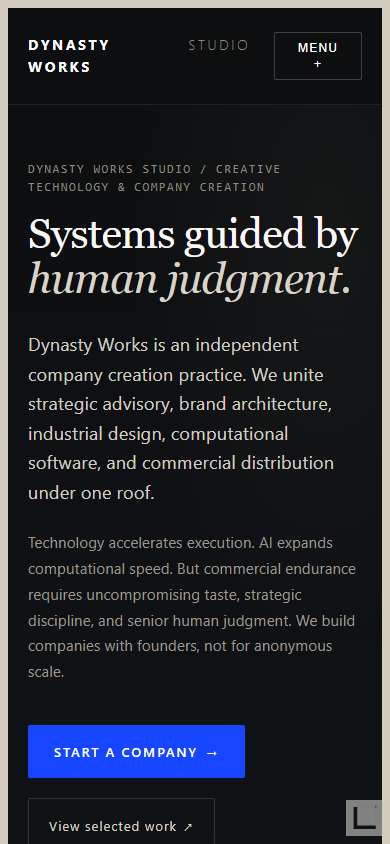
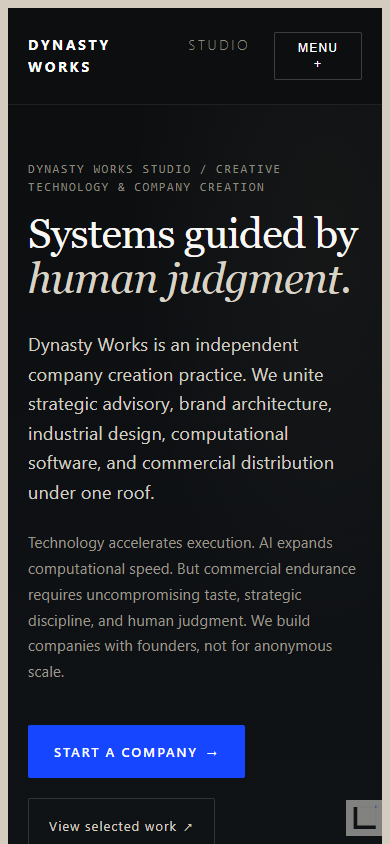
fix(phase-2d): apply truthfulness copy patch to studio operating principles

Changed region(s): [[0.3385, 0.7085, 0.9231, 0.7701]]

diff --git a/src/StudioPage.tsx b/src/StudioPage.tsx
@@ -86,7 +86,7 @@ export default function StudioPage() {
             </p>
             <p className="studio-hero-sub">
               Technology accelerates execution. AI expands computational speed. But commercial endurance requires
-              uncompromising taste, strategic discipline, and senior human judgment. We build companies with founders,
+              uncompromising taste, strategic discipline, and human judgment. We build companies with founders,
               not for anonymous scale.
             </p>
 
@@ -148,34 +148,34 @@ export default function StudioPage() {
 
             <div className="studio-tenets-grid">
               <article className="studio-tenet-card">
-                <span className="studio-tenet-num">01 / SENIOR LEADERSHIP</span>
-                <h3>Direct Practitioner Collaboration</h3>
+                <span className="studio-tenet-num">01 / FOUNDER PARTNERSHIP</span>
+                <h3>Direct Collaboration</h3>
                 <p>
-                  Founders partner directly with senior creative directors and technology architects. No junior handoffs, no account-management bureaucracy, and no translation layers.
+                  Direct collaboration and strategic alignment throughout the build. Founders work directly with the practice without account-management bureaucracy or translation layers.
                 </p>
               </article>
 
               <article className="studio-tenet-card">
                 <span className="studio-tenet-num">02 / END-TO-END OWNERSHIP</span>
-                <h3>One Unified Creative System</h3>
+                <h3>Connected Company Systems</h3>
                 <p>
-                  One team conceives the strategy, crafts the identity, authors the software, and engineers the physical products. The commercial thesis remains unbroken across every physical and digital surface.
+                  Strategy, identity, product, digital systems, and commercial architecture are developed as one connected company system. The core commercial proposition remains unified across every physical and digital touchpoint.
                 </p>
               </article>
 
               <article className="studio-tenet-card">
                 <span className="studio-tenet-num">03 / HUMAN AUTHORIZATION</span>
-                <h3>Technology Subordinate to Judgment</h3>
+                <h3>Judgment at the Helm</h3>
                 <p>
-                  We leverage advanced computational tools and generative pipelines to accelerate iteration, but every strategic recommendation, design standard, and line of production code is rigorously vetted and authorized by human judgment.
+                  AI and computational systems accelerate research, iteration, and execution. Strategic decisions, brand standards, and production code remain strictly subject to human judgment and approval.
                 </p>
               </article>
 
               <article className="studio-tenet-card">
                 <span className="studio-tenet-num">04 / HIGH CONVICTION</span>
-                <h3>Constrained Studio Volume</h3>
+                <h3>Integrated Creation</h3>
                 <p>
-                  We deliberately restrict the number of venture builds we accept each year. We do not operate a volume agency factory; we commit obsessive focus to each venture we help bring to life.
+                  DWS approaches company creation as an integrated build rather than a collection of disconnected deliverables, ensuring the commercial thesis carries through to market.
                 </p>
               </article>
             </div>

diff --git a/src/Review52Shell.tsx b/src/Review52Shell.tsx
@@ -309,23 +309,23 @@ export function StudioSignal() {
         <div className="r52-studio-body">
           <p className="r52-studio-lead">
             Technology and AI accelerate execution, but commercial endurance requires uncompromising creative taste,
-            strategic discipline, and senior partnership. We build companies with founders, not for anonymous scale.
+            strategic discipline, and human judgment. We build companies with founders, not for anonymous scale.
           </p>
           <div className="r52-studio-tenets">
             <div className="r52-tenet">
               <span className="r52-tenet-num">01</span>
-              <h4>End-to-End Ownership</h4>
-              <p>One unified team conceives the strategy, crafts the identity, builds the code, and engineers the physical products. Nothing is lost in handoffs.</p>
+              <h4>Founder Partnership</h4>
+              <p>Direct collaboration and strategic alignment throughout the build, without bureaucracy or translation layers.</p>
             </div>
             <div className="r52-tenet">
               <span className="r52-tenet-num">02</span>
-              <h4>Human Judgment at the Helm</h4>
-              <p>We leverage cutting-edge computational tools and generative pipelines, but every aesthetic and strategic decision is directed by senior creative practitioners.</p>
+              <h4>End-to-End Ownership</h4>
+              <p>Strategy, identity, product, digital systems, and commercial architecture are developed as one connected company system.</p>
             </div>
             <div className="r52-tenet">
               <span className="r52-tenet-num">03</span>
-              <h4>High-Conviction Partners</h4>
-              <p>We accept a deliberately constrained volume of new venture builds each year to ensure deep, obsessive founder-to-partner collaboration.</p>
+              <h4>Human Authorization</h4>
+              <p>AI and computational systems accelerate research, iteration, and execution. Strategic decisions and production standards remain strictly subject to human judgment and approval.</p>
             </div>
           </div>
         </div>

diff --git a/src/FounderBlueprintPage.tsx b/src/FounderBlueprintPage.tsx
@@ -191,7 +191,7 @@ export default function FounderBlueprintPage() {
                 <span className="fb-kicker">03 / WHAT HAPPENS?</span>
                 <h3>Discovery, Deep Research, and Architectural Synthesis</h3>
                 <p>
-                  We begin with your completed intake and an intensive 60–90 minute strategy working session. Our senior practitioners then analyze the market, define required disciplines, uncover hidden technical dependencies, and map your 30/60/90 execution sequence.
+                  We begin with your completed intake and an intensive 60–90 minute strategy working session. We then analyze the market, define required disciplines, uncover hidden technical dependencies, and map your 30/60/90 execution sequence.
                 </p>
               </article>
 
